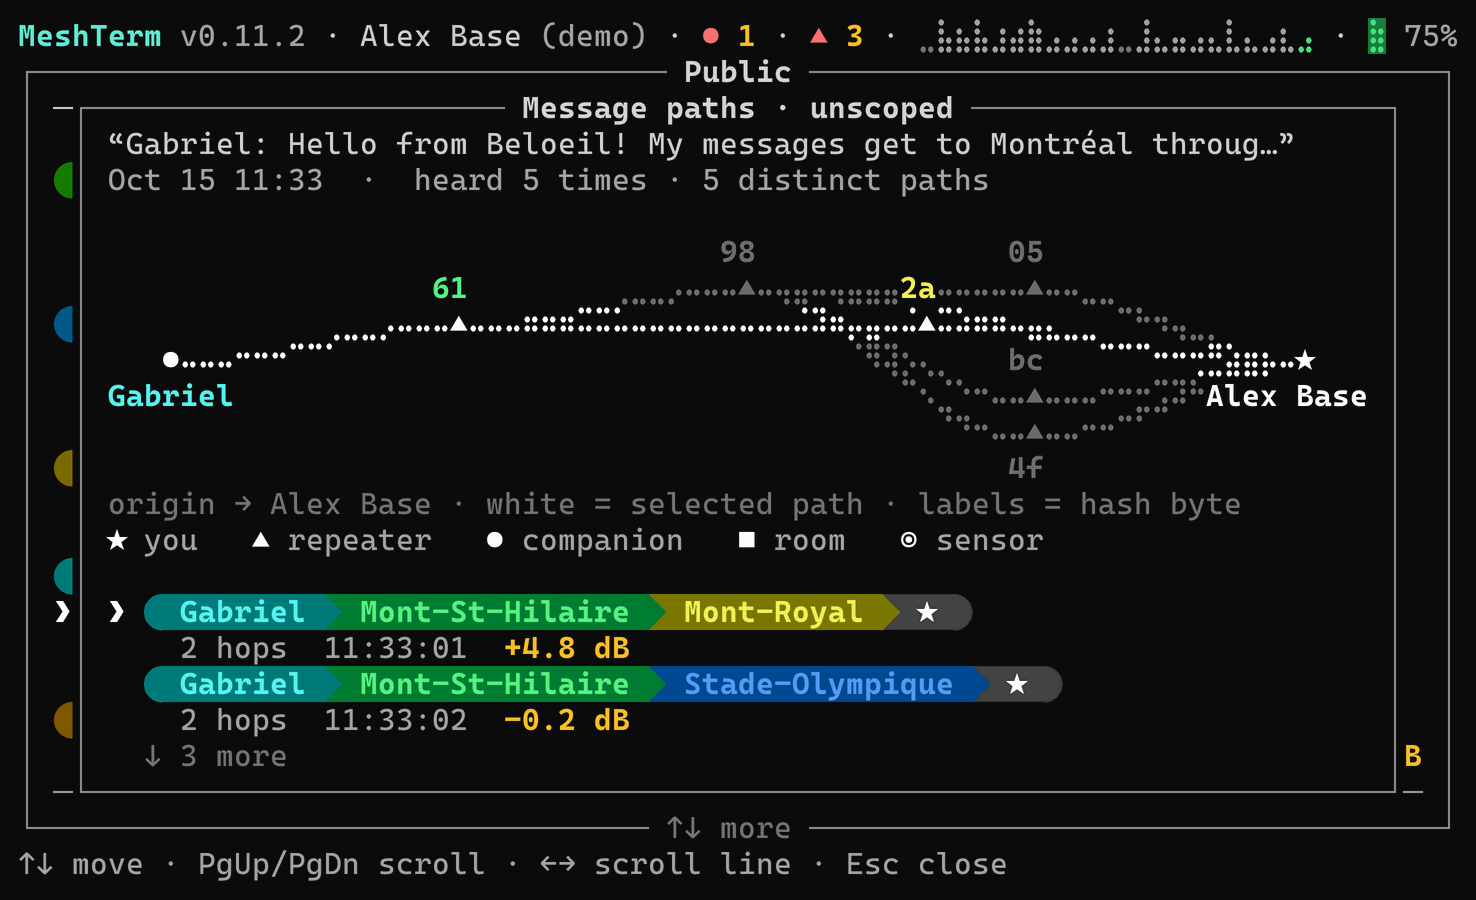
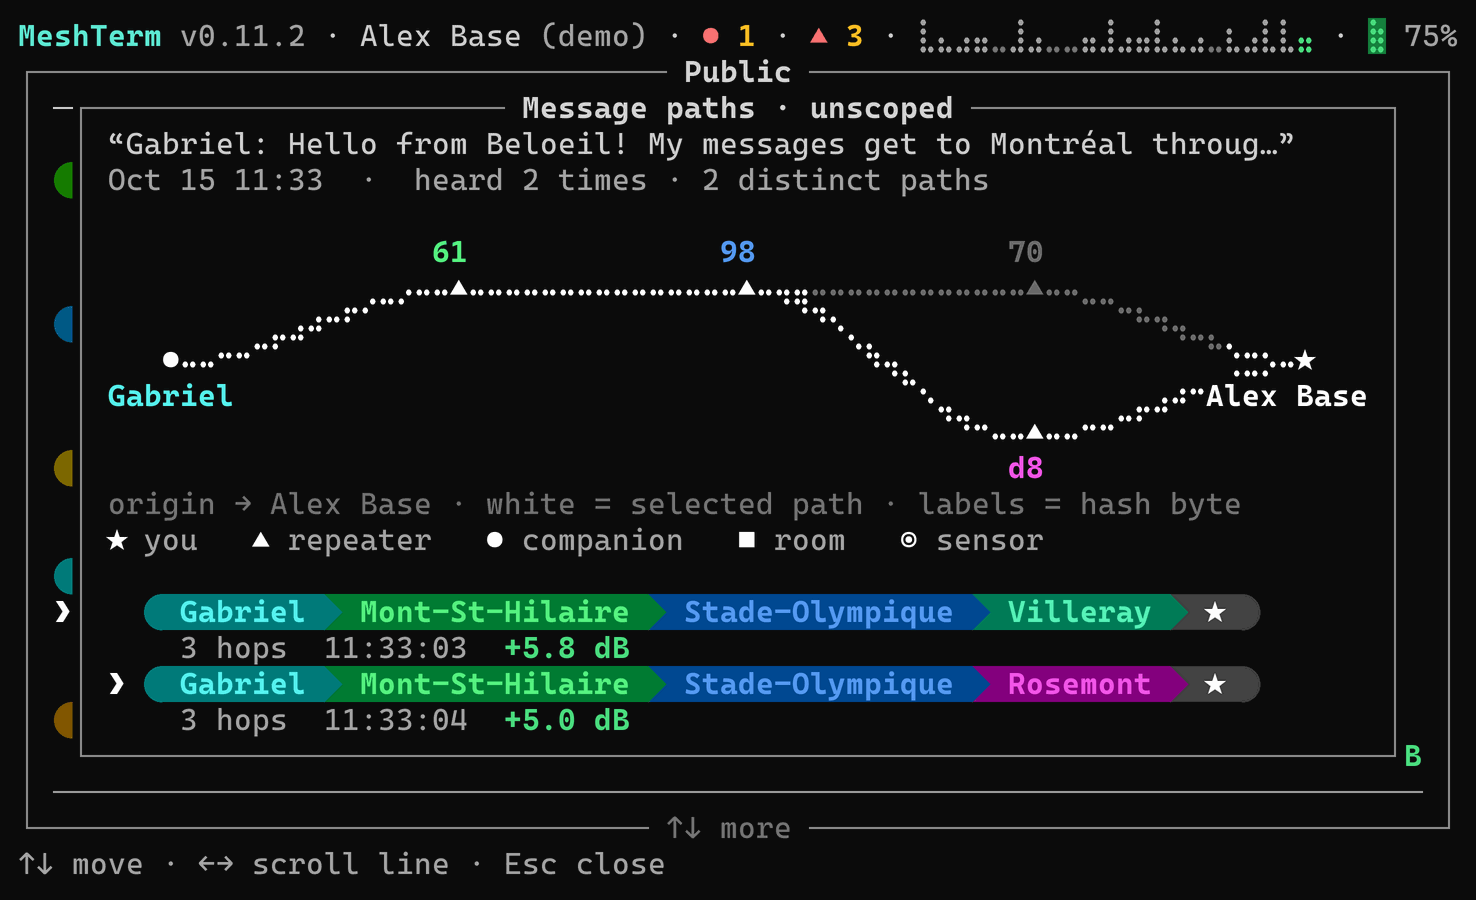
The demo's message paths look like a real mesh
Measured against a real Montreal database: most messages arrive twice,
through the two repeaters a companion hears, on paths that share their
start and split near the end, with 3-byte hashes. The demo did five or
six short copies through five neighbours.

Our node now hears only two new rooftop repeaters, Villeray and
Rosemont (the terrain hides the big ones), companions lose 7 dB at street
level, and each sender has its own hash width (mostly 3 bytes). Now 91%
of messages arrive twice and 83% of paths use 3-byte hashes. Noor moves
to Côte-des-Neiges to stay in reach, and the traces leave through
Villeray or Rosemont.

The capture finds the Message paths message by its text (a key press
can be lost while the transcript draws) and selects the second path,
since the first is often a straight line.

diff --git a/meshterm/demo/world.py b/meshterm/demo/world.py
@@ -110,7 +110,9 @@ class Node:
 _R, _C, _ROOM, _S = NODE_TYPE_REPEATER, NODE_TYPE_CHAT, NODE_TYPE_ROOM, NODE_TYPE_SENSOR
 
 #: Our node: the companion that the demo device is. It stands in La Petite-Patrie, near the
-#: Jean-Talon market, with an antenna on the roof of a triplex.
+#: Jean-Talon market, with an antenna on the roof of a triplex. The buildings around it
+#: hide the big repeaters (refer to :data:`_OBSTRUCTED`). It hears two small repeaters on
+#: the roofs nearby, Villeray and Rosemont, as a companion in the city usually does.
 SELF = Node("Alex Base", 0x91, _C, 45.5350, -73.6030, 2.0, first_heard_days=400.0)
 
 # fmt: off
@@ -132,6 +134,8 @@ NODES: tuple[Node, ...] = (
     Node("Brossard",        0x18, _R, 45.4570, -73.4660,  6.0, first_heard_days=70.0),
     Node("Mont-St-Bruno",   0xE1, _R, 45.5530, -73.3260, 13.0, first_heard_days=280.0),
     Node("Mont-St-Hilaire", 0x61, _R, 45.5490, -73.1570, 15.0, first_heard_days=45.0),
+    Node("Villeray",        0x70, _R, 45.5470, -73.6170,  4.0, first_heard_days=250.0),
+    Node("Rosemont",        0xD8, _R, 45.5420, -73.5850,  4.0, first_heard_days=170.0),
     # The room servers.
     Node("MTL BBS",         0x3B, _ROOM, 45.5225, -73.5840, 4.0, first_heard_days=330.0),
     Node("Café Mesh",       0x64, _ROOM, 45.5250, -73.5990, 3.0, first_heard_days=60.0,
@@ -154,7 +158,7 @@ NODES: tuple[Node, ...] = (
     Node("Kim-NDG",         0xBF, _C, 45.4735, -73.6145, 1.0, first_heard_days=260.0),
     Node("Nico R.",         0x94, _C, 45.5110, -73.5695, 0.0, shares_location=False,
          first_heard_days=90.0, talk=1.3),
-    Node("Noor",            0x50, _C, 45.5075, -73.6880, 1.0, first_heard_days=75.0),
+    Node("Noor",            0x50, _C, 45.4960, -73.6300, 1.0, first_heard_days=75.0),
     Node("Chloé L.",        0xC9, _C, 45.5170, -73.6060, 1.0, first_heard_days=220.0),
     Node("Sam Verdun",      0x68, _C, 45.4610, -73.5690, 1.0, first_heard_days=240.0),
     Node("Steve K.",        0x22, _C, 45.5340, -73.5050, 1.0, first_heard_days=40.0),
@@ -214,6 +218,35 @@ _DECADE_DB = 25.0
 _SOFT_CAP_DB = 10.0
 
 
+#: The extra loss (dB) of a link from or to a companion of the people of the mesh. Such a
+#: node is indoors, or in a pocket, at street level, so the buildings around it take more
+#: than the distance explains. A link between two companions takes it two times. Thus a
+#: companion reaches the repeaters near it, and another companion only when the two are
+#: close, as on a real mesh. Our node has its antenna on a roof, and the room servers and
+#: the sensors are outdoors, so they do not take it.
+_GROUND_DB = 7.0
+
+#: Links that the terrain blocks more than the model knows, by the names of their two
+#: ends, in dB of extra loss. The buildings around our node hide the big repeaters from
+#: it. Thus each flood reaches our node through the two small repeaters near it, usually
+#: one copy from each. This is what a real companion in Montréal hears: two copies of most
+#: messages, on paths that share their start and divide near the end.
+_OBSTRUCTED: dict[frozenset[str], float] = {
+    frozenset((SELF.name, name)): 14.0
+    for name in ("Mont-Royal", "Oratoire", "Centre-Ville", "Stade-Olympique", "Ahuntsic")
+}
+
+
+def _ground_loss(a: Node, b: Node) -> float:
+    """The loss that the street level adds to a link (refer to :data:`_GROUND_DB`)."""
+    return _GROUND_DB * (_indoors(a) + _indoors(b))
+
+
+def _indoors(node: Node) -> bool:
+    """Whether ``node`` is a companion at street level: each one except our node."""
+    return node.node_type == NODE_TYPE_CHAT and node is not SELF
+
+
 def _skew(a: Node, b: Node) -> float:
     """A fixed offset (dB) for the link from ``a`` to ``b``: the terrain that no model knows.
 
@@ -253,6 +286,7 @@ def link_snr(a: Node, b: Node) -> float | None:
         return None
     km = max(haversine_km(a.lat, a.lon, b.lat, b.lon), 0.05)
     snr = _ONE_KM_DB - _DECADE_DB * math.log10(km) + a.site_db + b.site_db + _skew(a, b)
+    snr -= _ground_loss(a, b) + _OBSTRUCTED.get(frozenset((a.name, b.name)), 0.0)
     if snr > _SOFT_CAP_DB:
         snr = _SOFT_CAP_DB + (snr - _SOFT_CAP_DB) * 0.25
     return round(snr, 2) if snr >= FLOOR_DB else None
@@ -334,6 +368,30 @@ def best_route(origin: Node, target: Node) -> tuple[Node, ...] | None:
 def _link_cost(snr: float) -> float:
     """The cost of one link for :func:`best_route`: one hop, more when the link is weak."""
     return 1.0 + 4.0 * loss_chance(snr)
+
+
+#: The nodes whose floods do not use three-byte hashes, and the width that they use. Our
+#: node keeps the default of its device, one byte.
+_NARROW_PATHS: dict[str, int] = {
+    SELF.name: 1,
+    "Steve K.": 2,
+    "Raphaël": 2,
+    "Olivier.T": 1,
+    "Tomás": 1,
+    "T1000-E": 1,
+    "Wio Tracker": 1,
+    "Mobile Node": 1,
+}
+
+
+def path_width(origin: Node) -> int:
+    """The bytes of each hash in the path of a flood from ``origin``.
+
+    The node that starts a flood sets the width, and each relay adds its hash at that
+    width. Most nodes of the mesh of Montréal use three bytes, a few use two, and some
+    older ones still use one (:data:`_NARROW_PATHS`).
+    """
+    return _NARROW_PATHS.get(origin.name, 3)
 
 
 @dataclass(frozen=True, slots=True)
@@ -506,7 +564,15 @@ REGION_TABLES: dict[str, list[tuple[str, str, bool]]] = {}
 _ISLAND = [("qc", "*", True), ("mtl", "qc", True), ("mtl-west", "mtl", True)]
 _NORTH = [("qc", "*", True), ("mtl", "qc", True), ("laval", "qc", True)]
 _SOUTH = [("qc", "*", True), ("mtl", "qc", False), ("south-shore", "qc", True)]
-for _name in ("Oratoire", "Centre-Ville", "Stade-Olympique", "Verdun-Quai", "Ahuntsic"):
+for _name in (
+    "Oratoire",
+    "Centre-Ville",
+    "Stade-Olympique",
+    "Verdun-Quai",
+    "Ahuntsic",
+    "Villeray",
+    "Rosemont",
+):
     REGION_TABLES[_name] = _ISLAND
 for _name in ("Lachine", "Pointe-Claire", "Île-Bizard"):
     REGION_TABLES[_name] = [*_ISLAND, ("west-island", "mtl-west", True)]

diff --git a/meshterm/demo/script.py b/meshterm/demo/script.py
@@ -113,7 +113,7 @@ CHANNEL_LINES: dict[str, tuple[Line, ...]] = {
             "Jean-Seb",
             "And the repeater at the chalet hears everyone, even through the trees 😄",
         ),
-        Line(at(0, "07:48"), "Noor", "First test from Saint-Laurent, can anyone hear me?"),
+        Line(at(0, "07:48"), "Noor", "First test from Côte-des-Neiges, can anyone hear me?"),
         Line(at(0, "07:52"), "Marie-Ève", "@[Noor] got you through Mont-Royal, +6 dB. Welcome!"),
         Line(
             at(0, "10:05"), "Mathilde", "Hi everyone! First time on MeshCore, I'm in Saint-Henri 👋"
@@ -127,7 +127,7 @@ CHANNEL_LINES: dict[str, tuple[Line, ...]] = {
         Line(
             at(0, "10:15"),
             ME,
-            "Your advert reaches me in one hop through Mont-Royal, SNR +8. Trace path shows it all",
+            "Your advert reaches me through Mont-Royal, then Rosemont. Trace path shows it all",
         ),
         Line(
             at(0, "10:40"),
@@ -324,26 +324,59 @@ LIVE_CHANNEL: tuple[tuple[float, str, Line], ...] = (
 #: the link model, tries again a few times when the trace does not come back (as a person
 #: does), and stores each try.
 TRACES: tuple[tuple[float, str | None, tuple[str, ...]], ...] = (
-    (at(6, "21:30"), "Longueuil", ("Mont-Royal", "Longueuil", "Mont-Royal")),
-    (at(5, "20:10"), "Pointe-Claire", ("Mont-Royal", "Pointe-Claire", "Mont-Royal")),
+    (
+        at(6, "21:30"),
+        "Longueuil",
+        ("Rosemont", "Stade-Olympique", "Longueuil", "Stade-Olympique", "Rosemont"),
+    ),
+    (
+        at(5, "20:10"),
+        "Pointe-Claire",
+        ("Villeray", "Mont-Royal", "Pointe-Claire", "Mont-Royal", "Villeray"),
+    ),
     (
         at(5, "20:20"),
         None,
-        ("Mont-Royal", "Pointe-Claire", "Île-Bizard", "Pointe-Claire", "Mont-Royal"),
+        (
+            "Villeray",
+            "Mont-Royal",
+            "Pointe-Claire",
+            "Île-Bizard",
+            "Pointe-Claire",
+            "Mont-Royal",
+            "Villeray",
+        ),
     ),
-    (at(4, "21:00"), "Laval-Chomedey", ("Ahuntsic", "Laval-Chomedey", "Ahuntsic")),
-    (at(3, "22:15"), None, ("Mont-Royal", "Mont-St-Hilaire", "Mont-Royal")),
-    (at(2, "20:40"), None, ("Oratoire", "Lachine", "Oratoire")),
+    (
+        at(4, "21:00"),
+        "Laval-Chomedey",
+        ("Villeray", "Ahuntsic", "Laval-Chomedey", "Ahuntsic", "Villeray"),
+    ),
+    (at(3, "22:15"), None, ("Rosemont", "Mont-Royal", "Mont-St-Hilaire", "Mont-Royal", "Rosemont")),
+    (at(2, "20:40"), None, ("Villeray", "Oratoire", "Lachine", "Oratoire", "Villeray")),
     (
         at(2, "21:50"),
         None,
-        ("Mont-Royal", "Mont-St-Bruno", "Mont-St-Hilaire", "Mont-St-Bruno", "Mont-Royal"),
+        (
+            "Rosemont",
+            "Stade-Olympique",
+            "Mont-St-Bruno",
+            "Mont-St-Hilaire",
+            "Mont-St-Bruno",
+            "Stade-Olympique",
+            "Rosemont",
+        ),
     ),
-    (at(1, "20:30"), None, ("Mont-Royal", "Laval-Chomedey", "Ahuntsic", "Stade-Olympique")),
+    (
+        at(1, "20:30"),
+        None,
+        ("Villeray", "Mont-Royal", "Laval-Chomedey", "Ahuntsic", "Stade-Olympique", "Rosemont"),
+    ),
     (
         at(1, "21:10"),
         None,
         (
+            "Rosemont",
             "Centre-Ville",
             "Verdun-Quai",
             "Brossard",
@@ -359,12 +392,14 @@ TRACES: tuple[tuple[float, str | None, tuple[str, ...]], ...] = (
             "Lachine",
             "Pointe-Claire",
             "Mont-Royal",
+            "Villeray",
         ),
     ),
     (
         at(1, "21:40"),
         None,
         (
+            "Villeray",
             "Oratoire",
             "Lachine",
             "Pointe-Claire",
@@ -373,10 +408,11 @@ TRACES: tuple[tuple[float, str | None, tuple[str, ...]], ...] = (
             "Mont-St-Bruno",
             "Mont-St-Hilaire",
             "Stade-Olympique",
+            "Rosemont",
         ),
     ),
-    (at(0, "09:05"), "Brossard", ("Mont-Royal", "Brossard", "Mont-Royal")),
-    (at(0, "10:20"), None, ("Mont-Royal", "Longueuil", "Stade-Olympique")),
+    (at(0, "09:05"), "Brossard", ("Rosemont", "Mont-Royal", "Brossard", "Mont-Royal", "Rosemont")),
+    (at(0, "10:20"), None, ("Rosemont", "Longueuil", "Stade-Olympique", "Villeray")),
 )
 
 #: The Watchtower: the nodes that our node watches, and the alerts that it raised and the

diff --git a/scripts/screenshots.py b/scripts/screenshots.py
@@ -80,10 +80,13 @@ NOW = datetime(2026, 10, 15, 11, 42, tzinfo=timezone(timedelta(hours=-4)))
 #: system.
 TZ = "EST5EDT"
 
-#: How many times the capture presses ↑ in the chat to select the message whose paths it
-#: shows: the line of Gabriel in Beloeil, which arrives on five paths through
-#: Mont-St-Hilaire.
-PATHS_MESSAGE = 2
+#: The message whose paths the capture shows: the channel to type in the picker, how many
+#: times to press ↑ from the newest message, and a part of its text near the start, which
+#: the quote at the top of the dialog shows on each platform. The capture checks the quote,
+#: and presses ↑ again until it finds the message, because a key press can be lost while
+#: the transcript draws. In the dialog it then selects the second path: the first one is
+#: often a straight line.
+PATHS_MESSAGE = ("public", 2, "Hello from Beloeil")
 
 
 def main(argv: list[str]) -> int:
@@ -177,6 +180,15 @@ class Capture:
             screen = self.terminal.text()
         raise TimeoutError(f"{text!r} did not appear. The screen:\n{screen}")
 
+    def quote(self) -> str:
+        """The quote of the message in the paths dialog: the line above its "heard" line."""
+        with self.lock:
+            lines = self.terminal.text().splitlines()
+        for index, line in enumerate(lines):
+            if index and "heard" in line and "time" in line:
+                return lines[index - 1]
+        return ""
+
     def grid(self) -> list[list[tuple[str, object]]]:
         """A copy of the cells of the screen."""
         with self.lock:
@@ -269,10 +281,35 @@ def _tour(capture: Capture, type_text: Callable[[str], None], save: Callable[[st
     capture.settle()
     save("chat")
     # The paths of a message.
-    press("up", count=PATHS_MESSAGE)
+    channel, ups, snippet = PATHS_MESSAGE
+    if channel != "public":
+        press(text="w", ctrl=True)
+        capture.settle(quiet=0.8)
+        press("escape")
+        typed("chat")
+        press("enter")
+        capture.wait_for("Public")
+        capture.settle()
+        typed(channel)
+        press("enter")
+        capture.settle(quiet=1.5)
+    for _ in range(ups):
+        press("up")
+        time.sleep(0.15)
     capture.settle(quiet=0.6)
-    press(text="p", ctrl=True)
-    capture.settle(quiet=2.0)
+    for _ in range(8):
+        press(text="p", ctrl=True)
+        capture.settle(quiet=2.0)
+        if snippet in capture.quote():
+            break
+        press("escape")
+        capture.settle(quiet=0.6)
+        press("up")
+        capture.settle(quiet=0.6)
+    else:
+        raise TimeoutError(f"no message with {snippet!r} in {channel}")
+    press("down")
+    capture.settle(quiet=1.0)
     save("paths")
     # The map, from the main menu.
     press("escape")

diff --git a/meshterm/demo/traffic.py b/meshterm/demo/traffic.py
@@ -51,6 +51,7 @@ from .world import (
     flood,
     link_snr,
     loss_chance,
+    path_width,
     reading,
 )
 
@@ -255,8 +256,16 @@ def heard_flood(
         if all(_relays_region(relay, region) for relay in copy.relays)
     ]
     route = "TC_FLOOD" if region else "FLOOD"
+    width = path_width(origin)
     out = [
-        _packet(origin if advert else None, start_s, copy, {"route_typename": route, **body}, rng)
+        _packet(
+            origin if advert else None,
+            start_s,
+            copy,
+            {"route_typename": route, **body},
+            rng,
+            width=width,
+        )
         for copy in copies
     ]
     if advert and copies:
@@ -266,11 +275,17 @@ def heard_flood(
 
 
 def _packet(
-    origin: Node | None, start_s: float, copy: Copy, body: dict, rng: random.Random
+    origin: Node | None,
+    start_s: float,
+    copy: Copy,
+    body: dict,
+    rng: random.Random,
+    *,
+    width: int = 1,
 ) -> Heard:
-    """One ``packet`` observation for one copy of a transmission."""
-    path = ",".join(relay.hash for relay in copy.relays)
-    raw = {**body, "path_len": len(copy.relays), "path_hash_size": 1}
+    """One ``packet`` observation for one copy of a transmission, with ``width``-byte hashes."""
+    path = ",".join(relay.public_key[: 2 * width] for relay in copy.relays)
+    raw = {**body, "path_len": len(copy.relays), "path_hash_size": width}
     share = origin is not None and origin.shares_location
     return Heard(
         start_s + copy.delay_s,
@@ -348,7 +363,8 @@ def heard_direct(
             continue
         remaining = route[index:]
         copy = Copy(remaining, reading(snr, rng), elapsed)
-        out.append(_packet(None, start_s, copy, {"route_typename": "DIRECT", **body}, rng))
+        direct = {"route_typename": "DIRECT", **body}
+        out.append(_packet(None, start_s, copy, direct, rng, width=path_width(src)))
     return out
 
 

diff --git a/tests/test_demo.py b/tests/test_demo.py
@@ -62,7 +62,7 @@ def test_the_demo_device_traces_a_path() -> None:
     async def run():  # noqa: ANN202
         device = DemoDevice()
         await device.connect()
-        spec = ",".join(world.node(n).hash for n in ("Mont-Royal", "Oratoire", "Mont-Royal"))
+        spec = ",".join(world.node(n).hash for n in ("Rosemont", "Mont-Royal", "Rosemont"))
         for _ in range(10):
             result = await device.run_trace("(path)", path=spec)
             if result.success:
@@ -71,7 +71,7 @@ def test_the_demo_device_traces_a_path() -> None:
 
     result = asyncio.run(run())
     assert result.success
-    assert [h.node for h in result.hops] == ["2a", "4f", "2a", None]
+    assert [h.node for h in result.hops] == ["d8", "2a", "d8", None]
 
 
 def test_prepare_writes_a_home(tmp_path: Path) -> None:
